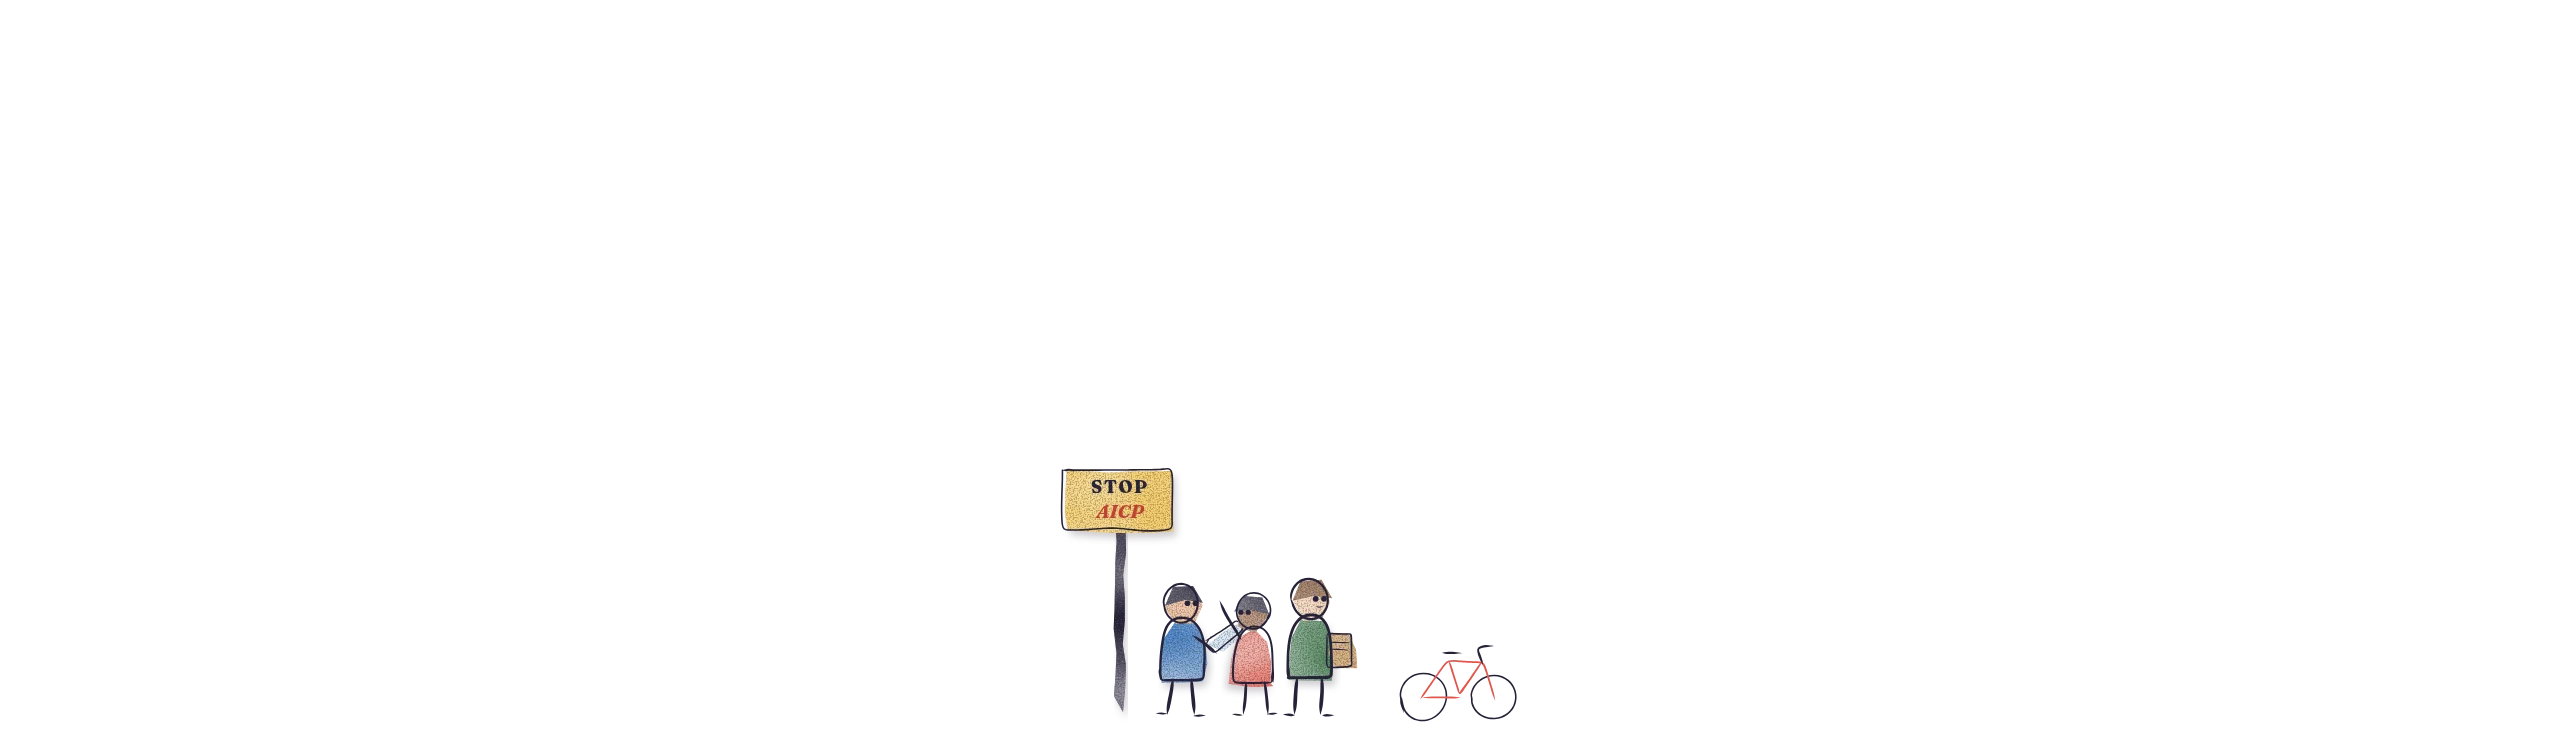
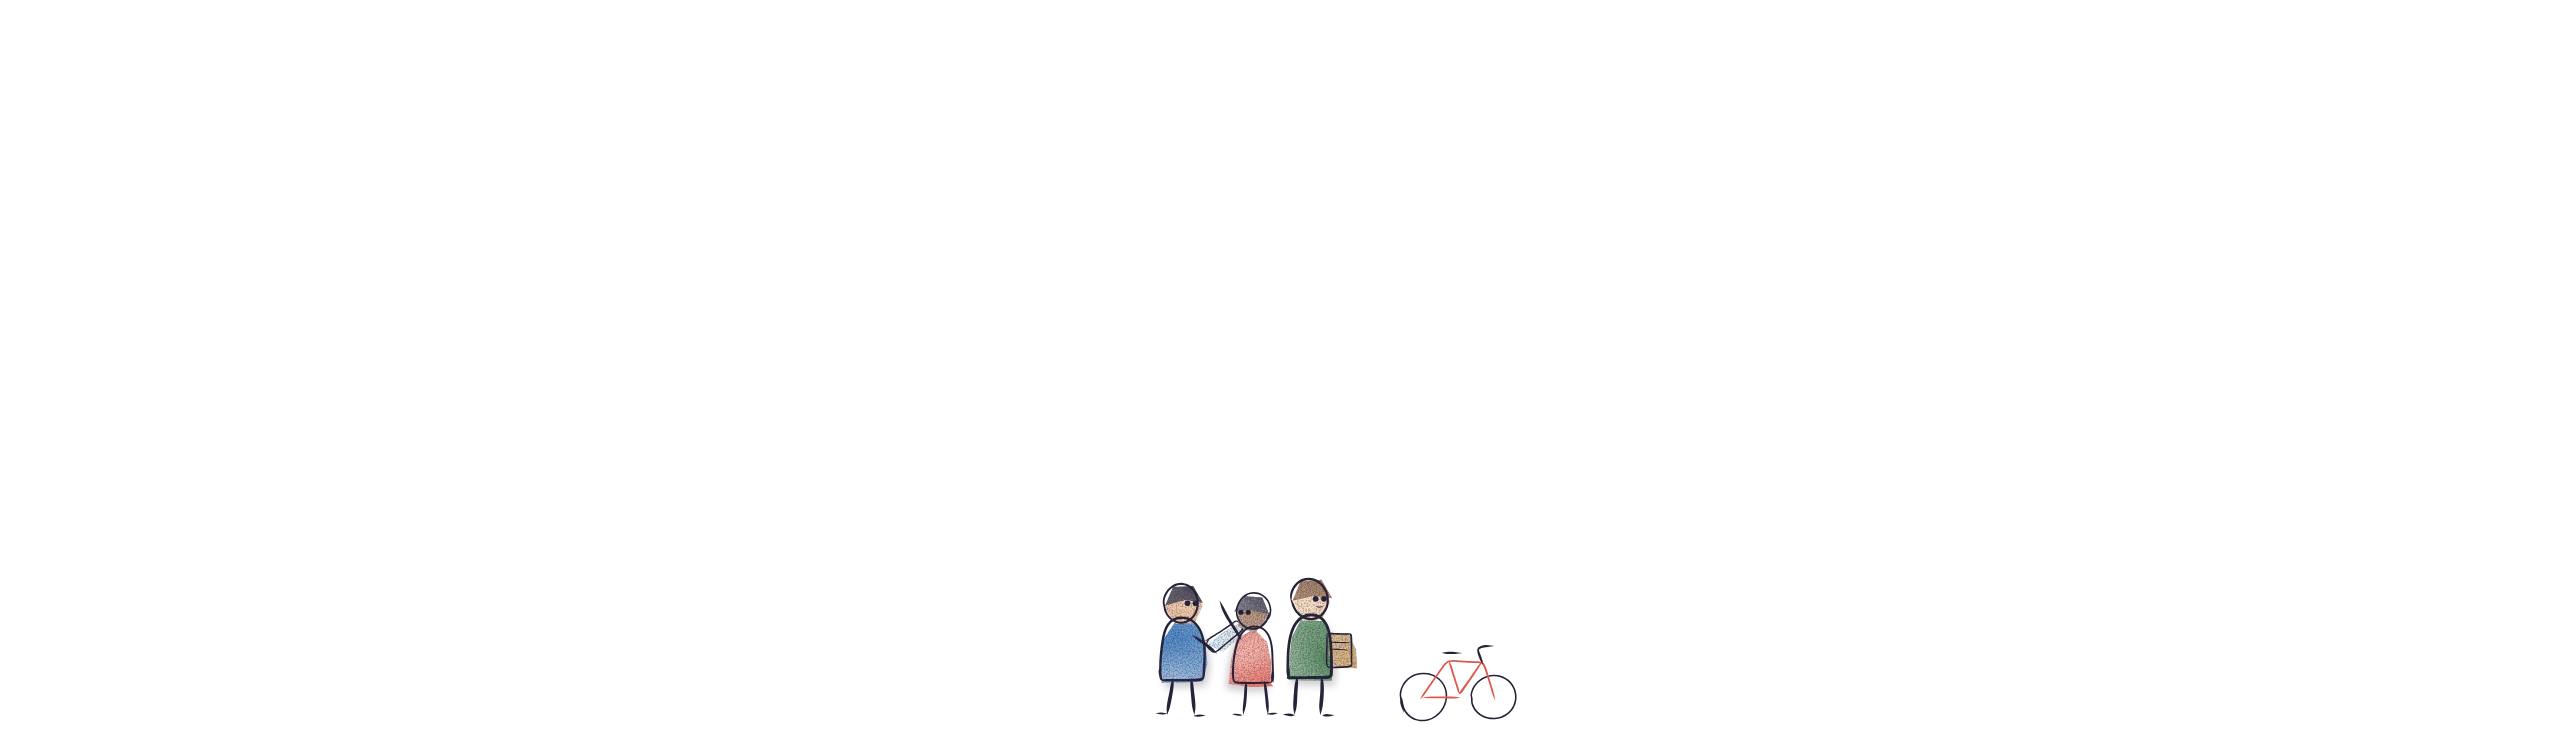
Hero: give the AICP stop sign its own still layer
The stop sign moved into the crowd layer so it would draw in front of the
tram, but that layer hops when the tram arrives, so the sign bounced with
the planners. It now renders as its own layer, hero-stop, placed after the
tram and before the crowd: in front of the tram, and still. hero-crowd is
back to just the planners.

Claude-Session: https://claude.ai/code/session_01HwurgaSM5Nx5a4nrNZWvQD

Changed region(s): [[0.4062, 0.6117, 0.4688, 0.734]]

diff --git a/web/src/components/HeroTown.jsx b/web/src/components/HeroTown.jsx
@@ -42,6 +42,7 @@ export default function HeroTown() {
             ))}
           </div>
         </div>
+        {layer('hero-stop')}
         {layer('hero-crowd', 'town__crowd')}
         {layer('hero-front')}
       </div>
